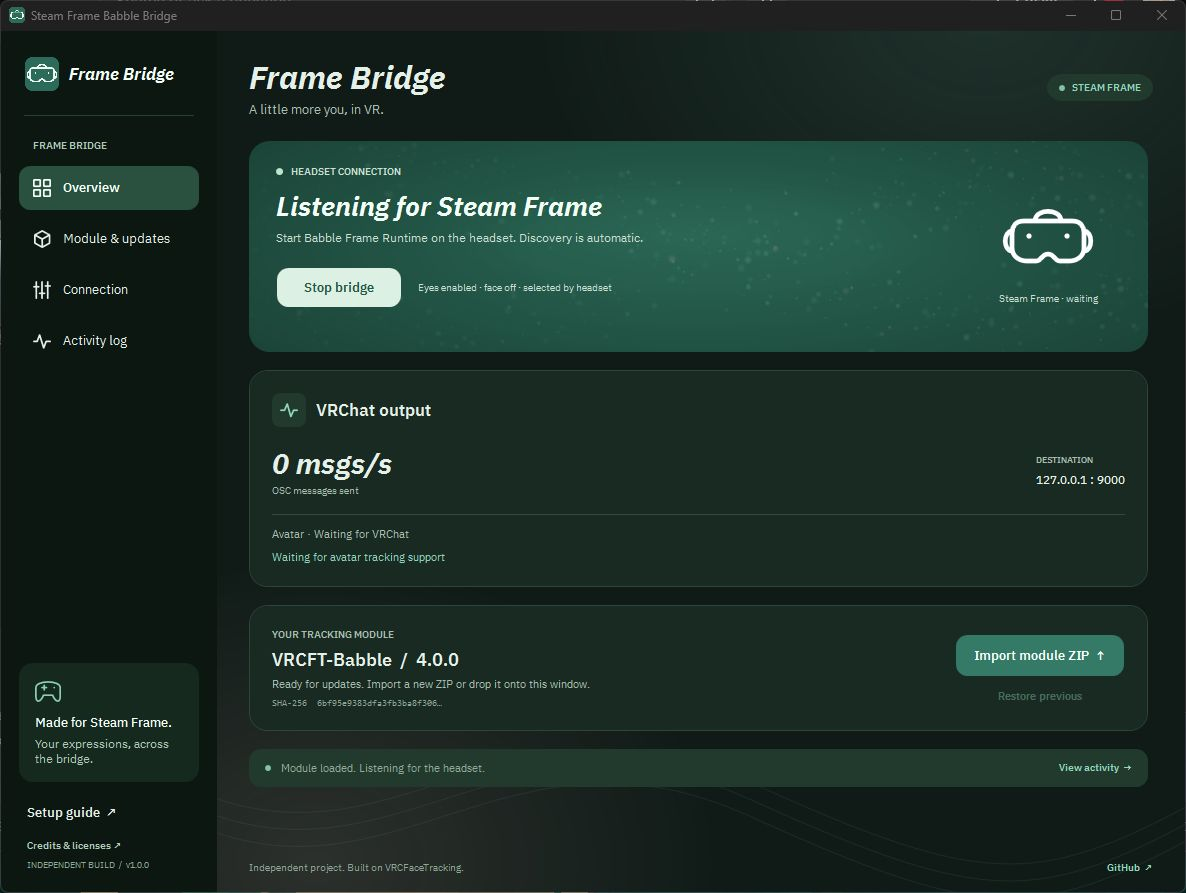
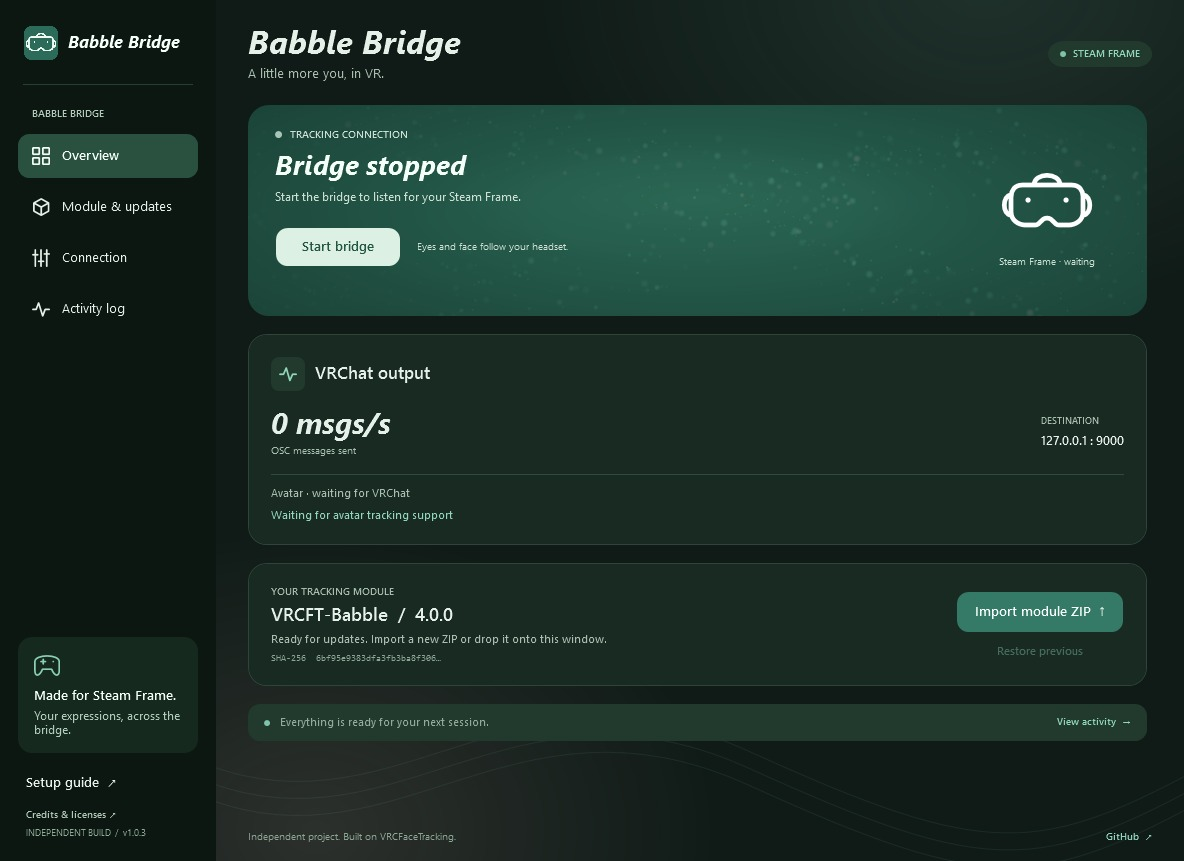
Rename app to Babble Bridge and verify saved startup selection

diff --git a/src/BabbleFrameBridge.App/MainWindow.xaml b/src/BabbleFrameBridge.App/MainWindow.xaml
@@ -1,12 +1,12 @@
 <!-- Copyright (c) 2026 Frame Bridge contributors. SPDX-License-Identifier: Apache-2.0 -->
 <Window x:Class="BabbleFrameBridge.App.MainWindow" xmlns="http://schemas.microsoft.com/winfx/2006/xaml/presentation" xmlns:x="http://schemas.microsoft.com/winfx/2006/xaml" xmlns:local="clr-namespace:BabbleFrameBridge.App"
- Title="Steam Frame Babble Bridge" Width="1200" Height="900" MinWidth="1020" MinHeight="760" WindowStartupLocation="CenterScreen" Background="{DynamicResource Cream}" Foreground="{DynamicResource Ink}" FontFamily="{StaticResource BrandFont}" FontSize="14" UseLayoutRounding="True" TextOptions.TextFormattingMode="Display" AllowDrop="True" Drop="Window_Drop" DragOver="Window_DragOver" Icon="Assets/Brand/bridge-logo.png">
+ Title="Babble Bridge" Width="1200" Height="900" MinWidth="1020" MinHeight="760" WindowStartupLocation="CenterScreen" Background="{DynamicResource Cream}" Foreground="{DynamicResource Ink}" FontFamily="{StaticResource BrandFont}" FontSize="14" UseLayoutRounding="True" TextOptions.TextFormattingMode="Display" AllowDrop="True" Drop="Window_Drop" DragOver="Window_DragOver" Icon="Assets/Brand/bridge-logo.png">
  <Grid>
   <Grid.ColumnDefinitions><ColumnDefinition Width="216"/><ColumnDefinition Width="*"/></Grid.ColumnDefinitions>
   <Border Background="{DynamicResource SidebarBackground}">
    <Grid Margin="18,26,18,22"><Grid.RowDefinitions><RowDefinition Height="Auto"/><RowDefinition Height="Auto"/><RowDefinition Height="*"/><RowDefinition Height="Auto"/></Grid.RowDefinitions>
-    <StackPanel><StackPanel Orientation="Horizontal" Margin="6,0,0,24"><Image Source="Assets/Brand/bridge-logo.png" Width="34" Height="34" Margin="0,0,10,0"/><TextBlock Text="Frame Bridge" Foreground="{DynamicResource HeroInk}" FontWeight="Bold" FontStyle="Italic" FontSize="17" VerticalAlignment="Center"/></StackPanel>
-     <Border Height="1" Background="{DynamicResource SidebarDivider}" Margin="5,0,5,23"/><TextBlock Text="FRAME BRIDGE" Foreground="{DynamicResource SidebarMuted}" FontSize="10" FontWeight="SemiBold" Margin="14,0,0,14"/>
+    <StackPanel><StackPanel Orientation="Horizontal" Margin="6,0,0,24"><Image Source="Assets/Brand/bridge-logo.png" Width="34" Height="34" Margin="0,0,10,0"/><TextBlock Text="Babble Bridge" Foreground="{DynamicResource HeroInk}" FontWeight="Bold" FontStyle="Italic" FontSize="17" VerticalAlignment="Center"/></StackPanel>
+     <Border Height="1" Background="{DynamicResource SidebarDivider}" Margin="5,0,5,23"/><TextBlock Text="BABBLE BRIDGE" Foreground="{DynamicResource SidebarMuted}" FontSize="10" FontWeight="SemiBold" Margin="14,0,0,14"/>
     </StackPanel>
     <StackPanel Grid.Row="1">
      <RadioButton x:Name="OverviewNav" GroupName="Pages" Style="{StaticResource Navigation}" Tag="overview" Checked="Navigate_Click" IsChecked="True"><StackPanel Orientation="Horizontal"><Path Style="{StaticResource OutlineIcon}" Stroke="{Binding Foreground,RelativeSource={RelativeSource AncestorType=RadioButton}}" Data="M3,3H10V10H3Z M14,3H21V10H14Z M3,14H10V21H3Z M14,14H21V21H14Z" Margin="0,0,12,0"/><TextBlock Text="Overview" VerticalAlignment="Center"/></StackPanel></RadioButton>
@@ -30,7 +30,7 @@
   <Grid Grid.Column="1" Margin="32,25,32,18">
    <Grid.RowDefinitions><RowDefinition Height="Auto"/><RowDefinition Height="Auto"/><RowDefinition Height="*"/><RowDefinition Height="Auto"/></Grid.RowDefinitions>
    <Grid Margin="0,0,0,23"><Grid.ColumnDefinitions><ColumnDefinition Width="*"/><ColumnDefinition Width="Auto"/></Grid.ColumnDefinitions>
-    <StackPanel><TextBlock x:Name="PageTitle" Text="Frame Bridge" Style="{StaticResource PageHeading}"/><TextBlock x:Name="PageSubtitle" Text="A little more you, in VR." Foreground="{DynamicResource Muted}" FontSize="13" Margin="0,3,0,0"/></StackPanel>
+    <StackPanel><TextBlock x:Name="PageTitle" Text="Babble Bridge" Style="{StaticResource PageHeading}"/><TextBlock x:Name="PageSubtitle" Text="A little more you, in VR." Foreground="{DynamicResource Muted}" FontSize="13" Margin="0,3,0,0"/></StackPanel>
     <Border Grid.Column="1" CornerRadius="16" Background="{DynamicResource SoftBackground}" Padding="12,7" VerticalAlignment="Center"><StackPanel Orientation="Horizontal"><Ellipse Width="6" Height="6" Fill="{DynamicResource Accent}" Margin="0,0,7,0"/><TextBlock Text="STEAM FRAME" Foreground="{DynamicResource AccentInk}" FontWeight="SemiBold" FontSize="10"/></StackPanel></Border>
    </Grid>
    <Border x:Name="GlobalNotice" Grid.Row="1" Visibility="Collapsed" Background="{DynamicResource ErrorBackground}" BorderBrush="{DynamicResource ErrorBorder}" BorderThickness="1" CornerRadius="12" Padding="14,9" Margin="0,0,0,14"><Grid><Grid.ColumnDefinitions><ColumnDefinition Width="*"/><ColumnDefinition Width="Auto"/></Grid.ColumnDefinitions><TextBlock x:Name="GlobalNoticeText" FontSize="12" Foreground="{DynamicResource ErrorInk}" VerticalAlignment="Center" TextWrapping="Wrap"/><Button x:Name="GlobalNoticeDismiss" Grid.Column="1" Content="×" Style="{StaticResource LinkButton}" Foreground="{Binding Foreground,ElementName=GlobalNoticeText}" FontSize="20" Padding="6,0" Margin="10,0,0,0" ToolTip="Dismiss notification" AutomationProperties.Name="Dismiss notification" Click="DismissNotice_Click"/></Grid></Border>

diff --git a/tests/BabbleFrameBridge.Appearance.Tests/Program.cs b/tests/BabbleFrameBridge.Appearance.Tests/Program.cs
@@ -55,6 +55,11 @@ internal static class Program
             Test("fresh profile requires an imported module even when auto-start is enabled", () =>
             {
                 Check(AppSettings.Load(emptyProfile).AutoStart, "Fixture did not exercise default auto-start.");
+                Check(AppSettings.Load(emptyProfile).InputSource == TrackingInputSource.SteamFrameRuntime,
+                    "First launch did not save Frame Runtime as the initial source.");
+                Check(Named<RadioButton>(window, "FrameSourceButton").IsChecked == true
+                    && Named<RadioButton>(window, "DesktopSourceButton").IsChecked == false,
+                    "First launch did not select Frame Runtime in the interface.");
                 Check(new ModuleStore(emptyProfile).Current is null, "First run installed a module.");
                 Check(!Directory.EnumerateFiles(emptyProfile, "*.dll", SearchOption.AllDirectories).Any(),
                     "First run copied module payload into the profile.");
@@ -171,12 +176,15 @@ internal static class Program
                     "manual notification dismissal");
             });
 
-            Test("desktop source selection is saved and restored without launching a worker", () =>
+            Test("a later launch restores the saved source and connection preferences", () =>
             {
                 Check(Named<RadioButton>(window, "FrameSourceButton").IsChecked == true,
                     "An existing/default profile changed away from Frame Runtime.");
                 Named<RadioButton>(window, "DesktopSourceButton").IsChecked = true;
                 Named<CheckBox>(window, "AutoStartBox").IsChecked = false;
+                Named<TextBox>(window, "HostBox").Text = "127.0.0.2";
+                Named<TextBox>(window, "PortBox").Text = "19000";
+                Named<TextBox>(window, "ReceiveBox").Text = "19001";
                 Method(window, "Save_Click").Invoke(window, [window, new RoutedEventArgs()]);
                 PumpUntil(() => !Field<bool>(window, "_busy"), "desktop source saved");
                 Check(AppSettings.Load(emptyProfile).InputSource == TrackingInputSource.BaballoniaDesktop,
@@ -190,6 +198,23 @@ internal static class Program
                 PumpUntil(() => Field<bool>(window, "_initialized") && !Field<bool>(window, "_busy"), "desktop profile reopened");
                 Check(Named<RadioButton>(window, "DesktopSourceButton").IsChecked == true,
                     "Reopening did not restore desktop source selection.");
+                Check(Named<TextBlock>(window, "TrackingInputPort").Text.Contains("8888"),
+                    "Reopening did not restore the desktop input port display.");
+                var restored = AppSettings.Load(emptyProfile);
+                Check(restored.OutputHost == "127.0.0.2" && restored.OutputPort == 19000
+                    && restored.ReceivePort == 19001 && !restored.AutoStart,
+                    "Reopening changed other saved connection preferences.");
+                Named<RadioButton>(window, "FrameSourceButton").IsChecked = true;
+                Method(window, "Save_Click").Invoke(window, [window, new RoutedEventArgs()]);
+                PumpUntil(() => !Field<bool>(window, "_busy"), "Frame source saved");
+                CloseWindow();
+                window = CreateWindow(emptyProfile);
+                themes.AttachWindow(window);
+                window.Show();
+                PumpUntil(() => Field<bool>(window, "_initialized") && !Field<bool>(window, "_busy"), "Frame profile reopened");
+                Check(Named<RadioButton>(window, "FrameSourceButton").IsChecked == true
+                    && AppSettings.Load(emptyProfile).InputSource == TrackingInputSource.SteamFrameRuntime,
+                    "A later launch did not restore the explicitly saved Frame source.");
                 Check(Field<object?>(window, "_worker") is null, "Changing source launched a worker without a module.");
                 Method(window, "SelectPage").Invoke(window, ["settings"]);
                 Named<StackPanel>(window, "SettingsPage").Opacity = 1;
@@ -220,6 +245,9 @@ internal static class Program
                     Check(Named<Button>(window, "ImportButton").IsEnabled, "Imported module disabled future imports.");
                     Check(Field<object?>(window, "_worker") is null, "AutoStart=false launched a worker.");
                     Check(Named<TextBlock>(window, "TrackingInputPort").Text.Contains("23456"), "Custom Frame Link port was not shown.");
+                    PumpUntil(() => Named<StackPanel>(window, "OverviewPage").Opacity >= .999,
+                        "module overview entrance finished before preview capture");
+                    SavePreview(window, renderDirectory, "module-ready.png");
                     Named<RadioButton>(window, "DesktopSourceButton").IsChecked = true;
                     Pump();
                     Check(Named<TextBlock>(window, "TrackingInputPort").Text.Contains("42424"), "Custom module desktop input port was not shown.");

diff --git a/src/BabbleFrameBridge.App/App.xaml.cs b/src/BabbleFrameBridge.App/App.xaml.cs
@@ -26,7 +26,7 @@ public partial class App : Application
         if (dataIndex >= 0 && dataIndex + 1 < e.Args.Length) root = Path.GetFullPath(e.Args[dataIndex + 1]);
         var key = Convert.ToHexString(SHA256.HashData(Encoding.UTF8.GetBytes(root.ToUpperInvariant())))[..20];
         _instance = new Mutex(true, "Local\\BabbleFrameBridge-" + key, out var first);
-        if (!first) { MessageBox.Show("Frame Bridge is already open.", "Frame Bridge"); Shutdown(); return; }
+        if (!first) { MessageBox.Show("Babble Bridge is already open.", "Babble Bridge"); Shutdown(); return; }
         // Stable presence marker lets future installers detect even portable copies.
         // Profile mutexes continue to keep normal and diagnostic data isolated.
         if (dataIndex < 0) {
@@ -39,7 +39,7 @@ public partial class App : Application
             RegisterApplicationRestart("", 1 | 2 | 8);
         }
         DispatcherUnhandledException += (_, error) => {
-            MessageBox.Show(error.Exception.Message, "Babble Frame Bridge", MessageBoxButton.OK, MessageBoxImage.Error);
+            MessageBox.Show(error.Exception.Message, "Babble Bridge", MessageBoxButton.OK, MessageBoxImage.Error);
             error.Handled = true;
         };
         _theme = new SystemThemeManager(this);

diff --git a/installer/assets/generate-art.py b/installer/assets/generate-art.py
@@ -1,10 +1,10 @@
 # Copyright (c) 2026 Frame Bridge contributors.
 # SPDX-License-Identifier: Apache-2.0
 
-"""Generate original Frame Bridge artwork. Requires Python3 and Pillow.
+"""Generate original Babble Bridge artwork. Requires Python3 and Pillow.
 
 The headset mark, closed spline motif, layout and colors below are original
-Frame Bridge assets. No Project Babble logo or website drawing is used.
+Babble Bridge assets. No Project Babble logo or website drawing is used.
 IBM Plex Sans is an unmodified OFL1.1 font; its license stays with the app.
 """
 from pathlib import Path
@@ -102,7 +102,7 @@ def main():
     panel=Image.alpha_composite(panel,flow)
     panel.alpha_composite(logo.resize((100,100),Image.Resampling.LANCZOS),(32,39))
     text=ImageDraw.Draw(panel)
-    text.text((30,171),'Frame Bridge',font=font('BoldItalic',36),fill='#F2FCF5')
+    text.text((30,171),'Babble Bridge',font=font('BoldItalic',36),fill='#F2FCF5')
     text.multiline_text((32,230),'Steam Frame tracking.\nYour module, your setup.',font=font('Regular',16),fill='#C7DFD0',spacing=6)
     text.line((32,294,86,294),fill='#80BDA6',width=2)
     text.line((32,553,296,553),fill='#385D4A',width=1)

diff --git a/src/BabbleFrameBridge.Worker/AvatarRouter.cs b/src/BabbleFrameBridge.Worker/AvatarRouter.cs
@@ -237,7 +237,7 @@ internal sealed class AvatarRouter : IAsyncDisposable
                 var context = await listener!.GetContextAsync().WaitAsync(stop.Token);
                 var hostInfo = context.Request.RawUrl?.Contains("HOST_INFO", StringComparison.OrdinalIgnoreCase) == true;
                 object response = hostInfo
-                    ? new { NAME = "VRCFT Babble Frame Bridge", OSC_IP = "127.0.0.1", OSC_PORT = settings.ReceivePort, OSC_TRANSPORT = "UDP" }
+                    ? new { NAME = "Babble Bridge", OSC_IP = "127.0.0.1", OSC_PORT = settings.ReceivePort, OSC_TRANSPORT = "UDP" }
                     : new { FULL_PATH = "/", CONTENTS = new Dictionary<string, object> { ["avatar"] = new { FULL_PATH = "/avatar", CONTENTS = new Dictionary<string, object> { ["change"] = new { FULL_PATH = "/avatar/change", ACCESS = 2, TYPE = "s" } } } } };
                 var bytes = Encoding.UTF8.GetBytes(System.Text.Json.JsonSerializer.Serialize(response));
                 context.Response.ContentType = "application/json";

diff --git a/src/BabbleFrameBridge.App/MainWindow.xaml.cs b/src/BabbleFrameBridge.App/MainWindow.xaml.cs
@@ -44,6 +44,7 @@ public partial class MainWindow : Window
         Directory.CreateDirectory(Path.Combine(root, "logs"));
         _logPath = Path.Combine(root, "logs", $"bridge-{DateTime.Now:yyyy-MM-dd}.log");
         _store = new ModuleStore(root);
+        // A new profile defaults to Frame Runtime; existing profiles retain their saved source.
         _settings = AppSettings.Load(root);
         if (!File.Exists(Path.Combine(root, "settings.json"))) { _settings.AutoStart = true; _settings.Save(root); }
         HostBox.Text = _settings.OutputHost;
@@ -464,7 +465,7 @@ public partial class MainWindow : Window
             "modules" => ("Module & updates", "A fresh module, whenever you’re ready."),
             "settings" => ("Connection", "Keep your expressions flowing."),
             "activity" => ("Activity log", "A clear view of your tracking session."),
-            _ => ("Frame Bridge", "A little more you, in VR.")
+            _ => ("Babble Bridge", "A little more you, in VR.")
         };
     }
 

diff --git a/README.md b/README.md
@@ -1,4 +1,4 @@
-# Steam Frame Babble Bridge
+# Babble Bridge
 
 <h2 align="center">
   <a href="https://github.com/ClassicWasTaken/SteamFrameBabbleBridge/releases/latest/download/Steam-Frame-Babble-Bridge-Setup.exe">⬇ Download for Windows (.exe)</a>
@@ -10,7 +10,7 @@
 
 A Windows app built for **Babble Frame Runtime on Steam Frame**. It sends your headset’s eye and face tracking to VRChat through compatible **VRCFaceTracking SDK** modules. Supports traditional VRCFT avatars and VRChat’s native face-tracking SDK beta.
 
-![Steam Frame Babble Bridge running on Windows](docs/images/app-running.jpg)
+![Babble Bridge running on Windows](docs/images/app-running.jpg)
 
 ## Get started
 
@@ -18,7 +18,7 @@ A Windows app built for **Babble Frame Runtime on Steam Frame**. It sends your h
 2. Start **Babble Frame Runtime** on your Steam Frame, on the same network as your PC.
 3. Enable **OSC** in VRChat and select a face-tracking avatar.
 
-For desktop Baballonia, select **Connection → Baballonia desktop → Save connection** and enable its VRCFaceTracking output to `127.0.0.1:8888`. Jerry’s templates are supported.
+First launch selects **Steam Frame Runtime**; later launches restore your saved source. For desktop Baballonia, select **Connection → Baballonia desktop → Save connection** and enable its VRCFaceTracking output to `127.0.0.1:8888`. Jerry’s templates are supported.
 
 Windows 10/11 x64. [Setup & requirements](START-HERE.txt) · [Build from source](BUILD.txt)
 

diff --git a/THIRD_PARTY_NOTICES.md b/THIRD_PARTY_NOTICES.md
@@ -1,6 +1,6 @@
 # Third-party copyrights and licenses
 
-The original Steam Frame Babble Bridge code and original bridge artwork are
+The original Babble Bridge (previously Steam Frame Babble Bridge) code and original bridge artwork are
 Copyright (c) 2026 Frame Bridge contributors, licensed under [Apache 2.0](LICENSE).
 Third-party works retain their own copyrights and terms. This file maps those
 works to the full notices preserved in the repository and distribution.
